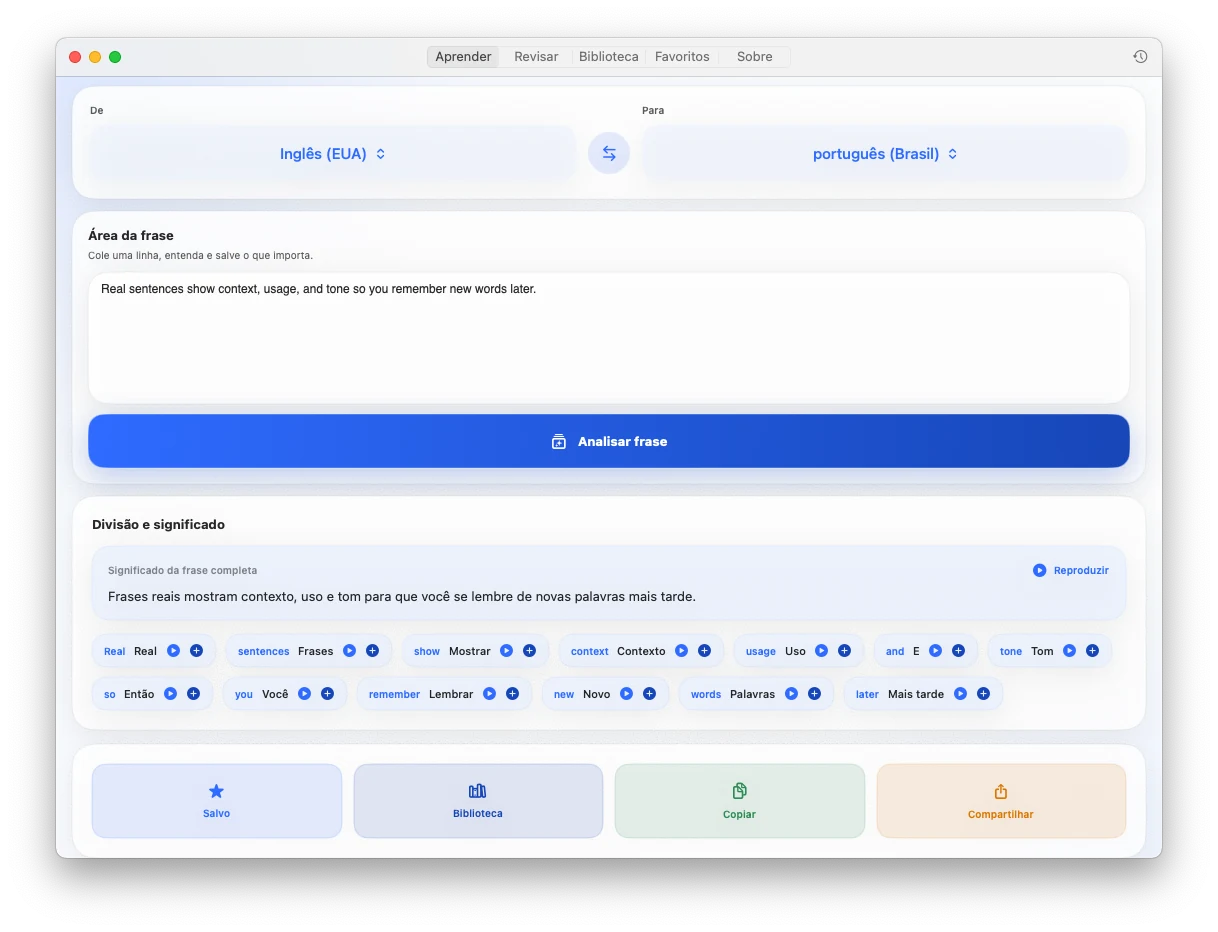
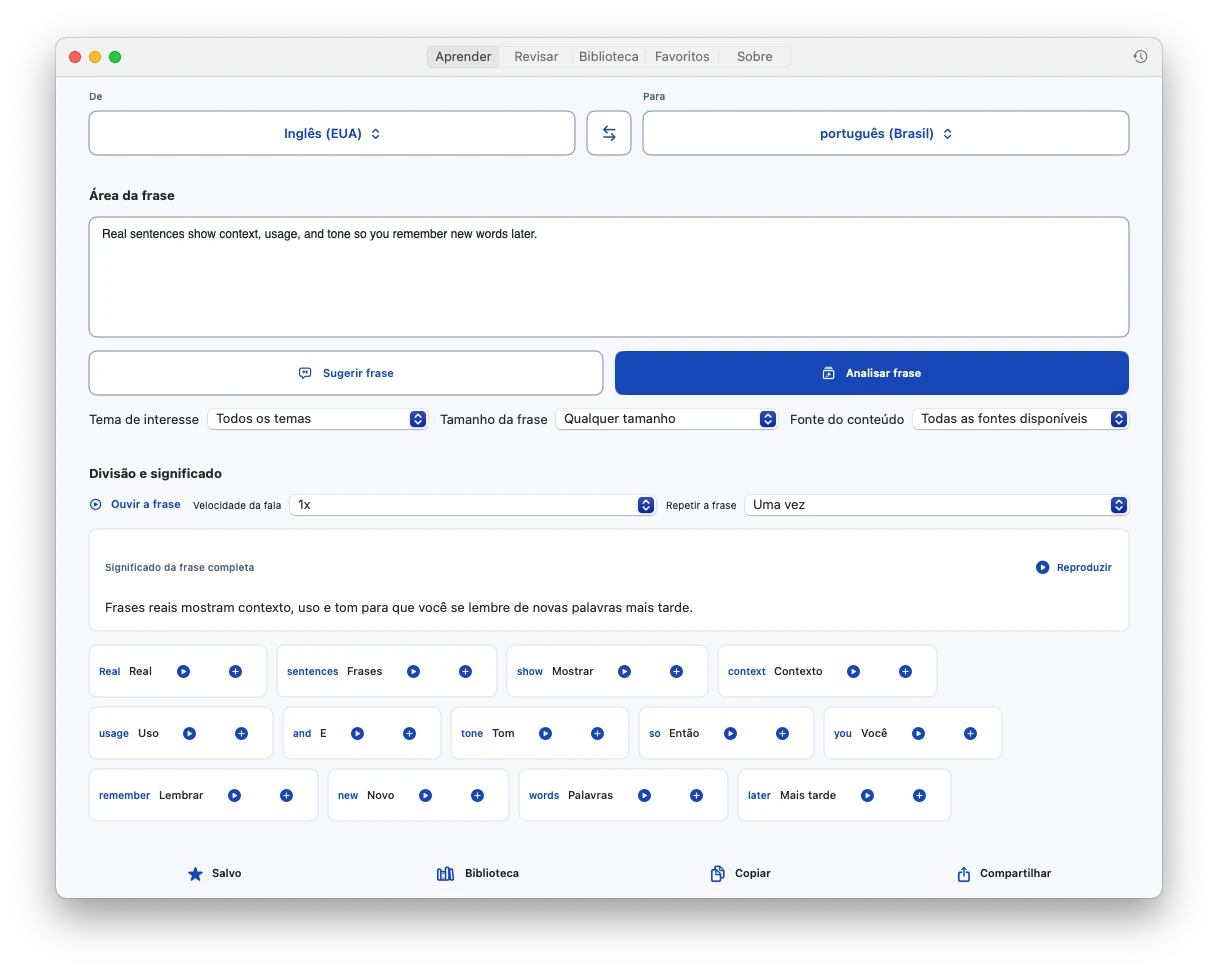
Refresh native App previews for 1.4.1 with verified image manifests

diff --git a/hi/index.html b/hi/index.html
@@ -65,7 +65,7 @@
 <div class="export-toolbar"><span id="selection-count" aria-live="polite"></span><label class="export-format">निर्यात का प्रारूप<select id="export-format"><option value="csv">CSV</option><option value="anki">Anki CSV</option></select></label><button id="export" type="button" class="secondary"><svg class="icon" aria-hidden="true"><use href="/images/study-icons.svg#download"></use></svg><span>निर्यात करें</span></button></div>
 </section>
 <section class="native-section" id="app"><div class="native-heading"><div><h2>जो शब्द काम आएँ, उन्हें सहेजकर रखें।</h2><p>iPhone, iPad और Mac पर पसंदीदा वाक्य और शब्द सहेजें। अंतराल पर दोहराएँ या अपनी अध्ययन सामग्री Anki में ले जाएँ।</p></div><a class="button primary" href="https://apps.apple.com/app/id6740488386?ct=website-home&mt=8"><svg class="icon" aria-hidden="true"><use href="/images/study-icons.svg#download"></use></svg>ऐप डाउनलोड करें</a></div>
-<figure class="native-screenshot"><picture><source media="(prefers-color-scheme: dark)" srcset="/images/app/mac_hi_dark_learn.webp"><img src="/images/app/mac_hi_light_learn.webp" alt="Mac पर PhraseCut: वाक्य, उसका अनुवाद और अलग-अलग शब्दों के अर्थ" width="1218" height="932" loading="lazy" decoding="async"></picture><figcaption>Mac ऐप का उदाहरण</figcaption></figure></section>
+<figure class="native-screenshot"><picture><source media="(prefers-color-scheme: dark)" srcset="/images/app/mac_hi_dark_learn.webp?v=593d5730af0e" width="1218" height="972"><img src="/images/app/mac_hi_light_learn.webp?v=181cde1f4ea0" alt="Mac पर PhraseCut: वाक्य, उसका अनुवाद और अलग-अलग शब्दों के अर्थ" width="1218" height="972" loading="lazy" decoding="async"></picture><figcaption>Mac ऐप के इंटरफ़ेस की झलक · 1.4.1</figcaption></figure></section>
 <section data-study-workflow><h2>पसंदीदा वाक्य से याद रहने वाले शब्द तक</h2><div class="learning-steps"><article><span class="step-number">01</span><h3>समझें</h3><p>पहले पूरे वाक्य का अर्थ देखें, फिर अलग-अलग शब्दों का।</p></article><article><span class="step-number">02</span><h3>सहेजें</h3><p>ऐप में उपयोगी शब्द मूल वाक्य के साथ रखें।</p></article><article><span class="step-number">03</span><h3>याद रखें</h3><p>अंतराल पर दोहराएँ या CSV और Anki CSV निर्यात करें।</p></article></div></section>
 <section data-search-overview><h2><a href="study">मुफ्त ऑनलाइन वाक्य अनुवाद और शब्द निर्यात</a></h2><p>PhraseCut का वेब संस्करण पूरे वाक्य और अलग-अलग शब्दों का अनुवाद, उपलब्ध ब्राउज़र आवाज़ों से उच्चारण और मूल वाक्य के साथ शब्द निर्यात देता है। iPhone, iPad और Mac ऐप में स्थानीय अध्ययन लाइब्रेरी और अंतराल पर दोहराने की सुविधा भी है।</p><a class="text-link" href="help">सहायता</a></section>
 <section data-content-sources><h2>अपनी रुचि के लेखों से नए शब्द सीखें</h2><p>यात्रा, तकनीक, विज्ञान, संस्कृति और दूसरे विषयों पर अपडेट होते सार्वजनिक स्रोतों से छोटे अंश खोजें। वाक्य और शब्दों का अनुवाद करें, फिर गति बदलकर और दोहराकर सुनने का अभ्यास करें। हर सुझाव में मूल लेख और लाइसेंस का लिंक है; यह पूरा समाचार लेख या प्रकाशक की ऑडियो रिकॉर्डिंग नहीं है।</p><p><a href="https://en.wikipedia.org/">Wikipedia</a> · <a href="https://globalvoices.org/">Global Voices</a> · <a href="https://www.nasa.gov/rss-feeds/">NASA</a> · <a href="https://en.wikivoyage.org/">Wikivoyage</a></p><p>अभी सुझाव अंग्रेज़ी स्रोतों से आते हैं। आप 20 समर्थित अनुवाद भाषाओं में अपना पाठ भी पेस्ट कर सकते हैं। उच्चारण आपके डिवाइस में उपलब्ध ब्राउज़र आवाज़ों पर निर्भर है। यह शब्द और सुनने के अभ्यास का टूल है, बहुभाषी समाचार फ़ीड या AI शिक्षक नहीं।</p></section>

diff --git a/vi/index.html b/vi/index.html
@@ -65,7 +65,7 @@
 <div class="export-toolbar"><span id="selection-count" aria-live="polite"></span><label class="export-format">Định dạng xuất<select id="export-format"><option value="csv">CSV</option><option value="anki">Anki CSV</option></select></label><button id="export" type="button" class="secondary"><svg class="icon" aria-hidden="true"><use href="/images/study-icons.svg#download"></use></svg><span>Xuất</span></button></div>
 </section>
 <section class="native-section" id="app"><div class="native-heading"><div><h2>Giữ lại những từ đáng để ôn lại.</h2><p>Lưu câu và từ vựng yêu thích trên iPhone, iPad và Mac. Ôn tập ngắt quãng hoặc mang tài liệu học sang Anki.</p></div><a class="button primary" href="https://apps.apple.com/app/id6740488386?ct=website-home&mt=8"><svg class="icon" aria-hidden="true"><use href="/images/study-icons.svg#download"></use></svg>Tải ứng dụng</a></div>
-<figure class="native-screenshot"><picture><source media="(prefers-color-scheme: dark)" srcset="/images/app/mac_vi_dark_learn.webp"><img src="/images/app/mac_vi_light_learn.webp" alt="PhraseCut cho Mac: câu gốc, bản dịch và nghĩa từng từ" width="1218" height="932" loading="lazy" decoding="async"></picture><figcaption>Ví dụ giao diện ứng dụng Mac</figcaption></figure></section>
+<figure class="native-screenshot"><picture><source media="(prefers-color-scheme: dark)" srcset="/images/app/mac_vi_dark_learn.webp?v=1c5e4821a813" width="1218" height="972"><img src="/images/app/mac_vi_light_learn.webp?v=97d89446cf3a" alt="PhraseCut cho Mac: câu gốc, bản dịch và nghĩa từng từ" width="1218" height="972" loading="lazy" decoding="async"></picture><figcaption>Xem trước giao diện ứng dụng Mac · 1.4.1</figcaption></figure></section>
 <section data-study-workflow><h2>Từ câu yêu thích đến từ vựng bạn nhớ</h2><div class="learning-steps"><article><span class="step-number">01</span><h3>Hiểu</h3><p>Đọc nghĩa cả câu, rồi xem từng từ.</p></article><article><span class="step-number">02</span><h3>Lưu</h3><p>Lưu từ vựng hữu ích cùng câu gốc trong ứng dụng.</p></article><article><span class="step-number">03</span><h3>Nhớ</h3><p>Ôn tập ngắt quãng hoặc xuất CSV và Anki CSV.</p></article></div></section>
 <section data-search-overview><h2><a href="study">Dịch câu và xuất từ vựng trực tuyến miễn phí</a></h2><p>PhraseCut Online dịch cả câu và từng từ, phát âm bằng giọng đọc có sẵn trong trình duyệt, và xuất từ vựng kèm ngữ cảnh câu gốc. Ứng dụng iPhone, iPad và Mac còn có thư viện học cục bộ và ôn tập ngắt quãng.</p><a class="text-link" href="help">Trợ giúp</a></section>
 <section data-content-sources><h2>Học từ mới từ bài viết đúng sở thích</h2><p>Khám phá trích đoạn ngắn về du lịch, công nghệ, khoa học, văn hóa và các chủ đề khác từ nguồn công khai được cập nhật. Dịch câu và từng từ, rồi luyện nghe với tốc độ và số lần lặp tùy chọn. Mỗi gợi ý kèm liên kết bài gốc và giấy phép; đây không phải bài báo đầy đủ hay bản ghi âm của nhà xuất bản.</p><p><a href="https://en.wikipedia.org/">Wikipedia</a> · <a href="https://globalvoices.org/">Global Voices</a> · <a href="https://www.nasa.gov/rss-feeds/">NASA</a> · <a href="https://en.wikivoyage.org/">Wikivoyage</a></p><p>Gợi ý hiện lấy từ nguồn tiếng Anh. Bạn cũng có thể dán văn bản của mình bằng 20 ngôn ngữ dịch được hỗ trợ. Phát âm phụ thuộc vào giọng đọc có trên thiết bị. Đây là công cụ luyện từ vựng và nghe, không phải bảng tin đa ngôn ngữ hay gia sư AI.</p></section>

diff --git a/index.html b/index.html
@@ -65,7 +65,7 @@
 <div class="export-toolbar"><span id="selection-count" aria-live="polite"></span><label class="export-format">Export format<select id="export-format"><option value="csv">CSV</option><option value="anki">Anki CSV</option></select></label><button id="export" type="button" class="secondary"><svg class="icon" aria-hidden="true"><use href="/images/study-icons.svg#download"></use></svg><span>Export</span></button></div>
 </section>
 <section class="native-section" id="app"><div class="native-heading"><div><h2>Keep the words worth coming back to.</h2><p>Save favorite sentences and vocabulary on iPhone, iPad, and Mac. Review with spaced repetition, or take your study material to Anki.</p></div><a class="button primary" href="https://apps.apple.com/app/id6740488386?ct=website-home&mt=8"><svg class="icon" aria-hidden="true"><use href="/images/study-icons.svg#download"></use></svg>Get the app</a></div>
-<figure class="native-screenshot"><picture><source media="(prefers-color-scheme: dark)" srcset="/images/app/mac_en_US_dark_learn.webp"><img src="/images/app/mac_en_US_light_learn.webp" alt="PhraseCut for Mac: a sentence, its translation, and individual word results" width="1218" height="932" loading="lazy" decoding="async"></picture><figcaption>Mac app interface example</figcaption></figure></section>
+<figure class="native-screenshot"><picture><source media="(prefers-color-scheme: dark)" srcset="/images/app/mac_en_US_dark_learn.webp?v=e8e71ff62b45" width="1218" height="972"><img src="/images/app/mac_en_US_light_learn.webp?v=b01d36cfd3f9" alt="PhraseCut for Mac: a sentence, its translation, and individual word results" width="1218" height="972" loading="lazy" decoding="async"></picture><figcaption>Mac app interface preview · 1.4.1</figcaption></figure></section>
 <section data-study-workflow><h2>From a favorite line to a word you remember</h2><div class="learning-steps"><article><span class="step-number">01</span><h3>Understand</h3><p>Translate the whole sentence, then look at the individual words.</p></article><article><span class="step-number">02</span><h3>Keep</h3><p>Save useful vocabulary with its original sentence in the app.</p></article><article><span class="step-number">03</span><h3>Remember</h3><p>Return for spaced review, or export your library as CSV or Anki CSV.</p></article></div></section>
 <section data-search-overview><h2><a href="study">Free online sentence translation and vocabulary export</a></h2><p>PhraseCut Online translates your sentence and individual words, plays pronunciation using available browser voices, and exports selected words with their sentence context. The native app adds a saved study library and spaced repetition.</p><a class="text-link" href="help">Help</a></section>
 <section data-content-sources><h2>Learn words from articles that match your interests</h2><p>Explore short excerpts about travel, technology, science, culture, and other interests from public sources that keep updating. Translate a sentence and its words, then practice listening with adjustable speed and repeats. Each suggestion links to its original article and license; it is not a complete news article or an audio recording by the publisher.</p><p><a href="https://en.wikipedia.org/">Wikipedia</a> · <a href="https://globalvoices.org/">Global Voices</a> · <a href="https://www.nasa.gov/rss-feeds/">NASA</a> · <a href="https://en.wikivoyage.org/">Wikivoyage</a></p><p>Recommendations currently use English-language sources. You can also paste your own text in any of the 20 supported translation languages. Browser pronunciation depends on the voices installed on your device. This is a vocabulary and listening practice tool, not a multilingual news feed or an AI tutor.</p></section>

diff --git a/pt-br/index.html b/pt-br/index.html
@@ -65,7 +65,7 @@
 <div class="export-toolbar"><span id="selection-count" aria-live="polite"></span><label class="export-format">Formato de exportação<select id="export-format"><option value="csv">CSV</option><option value="anki">Anki CSV</option></select></label><button id="export" type="button" class="secondary"><svg class="icon" aria-hidden="true"><use href="/images/study-icons.svg#download"></use></svg><span>Exportar</span></button></div>
 </section>
 <section class="native-section" id="app"><div class="native-heading"><div><h2>Guarde as palavras que vale a pena rever.</h2><p>Salve frases e palavras favoritas no iPhone, iPad e Mac. Revise com repetição espaçada ou leve seu material de estudo para o Anki.</p></div><a class="button primary" href="https://apps.apple.com/app/id6740488386?ct=website-home&mt=8"><svg class="icon" aria-hidden="true"><use href="/images/study-icons.svg#download"></use></svg>Baixar o app</a></div>
-<figure class="native-screenshot"><picture><source media="(prefers-color-scheme: dark)" srcset="/images/app/mac_pt_BR_dark_learn.webp"><img src="/images/app/mac_pt_BR_light_learn.webp" alt="PhraseCut para Mac: frase, tradução e significado de cada palavra" width="1218" height="932" loading="lazy" decoding="async"></picture><figcaption>Exemplo da interface do app para Mac</figcaption></figure></section>
+<figure class="native-screenshot"><picture><source media="(prefers-color-scheme: dark)" srcset="/images/app/mac_pt_BR_dark_learn.webp?v=72d4682b2b1c" width="1219" height="972"><img src="/images/app/mac_pt_BR_light_learn.webp?v=f2aa232e840b" alt="PhraseCut para Mac: frase, tradução e significado de cada palavra" width="1218" height="972" loading="lazy" decoding="async"></picture><figcaption>Prévia da interface do app para Mac · 1.4.1</figcaption></figure></section>
 <section data-study-workflow><h2>De uma frase favorita a palavras que ficam</h2><div class="learning-steps"><article><span class="step-number">01</span><h3>Entenda</h3><p>Leia o significado da frase inteira e depois confira cada palavra.</p></article><article><span class="step-number">02</span><h3>Guarde</h3><p>Salve palavras úteis com a frase original no app.</p></article><article><span class="step-number">03</span><h3>Lembre</h3><p>Revise com intervalos ou exporte CSV e Anki CSV.</p></article></div></section>
 <section data-search-overview><h2><a href="study">Tradução de frases e exportação de vocabulário grátis</a></h2><p>O PhraseCut Online traduz a frase e cada palavra, reproduz a pronúncia com as vozes disponíveis no navegador e exporta vocabulário com o contexto original. O app para iPhone, iPad e Mac também oferece biblioteca local e repetição espaçada.</p><a class="text-link" href="help">Ajuda</a></section>
 <section data-content-sources><h2>Aprenda palavras com artigos dos seus interesses</h2><p>Explore trechos curtos sobre viagens, tecnologia, ciência, cultura e outros interesses em fontes públicas atualizadas. Traduza a frase e suas palavras, depois pratique a escuta com velocidade e repetições ajustáveis. Cada sugestão inclui o artigo original e a licença; não é uma notícia completa nem uma gravação do editor.</p><p><a href="https://en.wikipedia.org/">Wikipedia</a> · <a href="https://globalvoices.org/">Global Voices</a> · <a href="https://www.nasa.gov/rss-feeds/">NASA</a> · <a href="https://en.wikivoyage.org/">Wikivoyage</a></p><p>As sugestões usam fontes em inglês por enquanto. Você também pode colar seu texto em qualquer um dos 20 idiomas de tradução disponíveis. A pronúncia depende das vozes do navegador no seu dispositivo. Esta é uma ferramenta de vocabulário e escuta, não um feed de notícias multilíngue nem um tutor de IA.</p></section>

diff --git a/id/index.html b/id/index.html
@@ -65,7 +65,7 @@
 <div class="export-toolbar"><span id="selection-count" aria-live="polite"></span><label class="export-format">Format ekspor<select id="export-format"><option value="csv">CSV</option><option value="anki">Anki CSV</option></select></label><button id="export" type="button" class="secondary"><svg class="icon" aria-hidden="true"><use href="/images/study-icons.svg#download"></use></svg><span>Ekspor</span></button></div>
 </section>
 <section class="native-section" id="app"><div class="native-heading"><div><h2>Simpan kata yang ingin Anda ingat.</h2><p>Simpan kalimat dan kosakata favorit di iPhone, iPad, dan Mac. Ulangi dengan jeda belajar atau bawa materi Anda ke Anki.</p></div><a class="button primary" href="https://apps.apple.com/app/id6740488386?ct=website-home&mt=8"><svg class="icon" aria-hidden="true"><use href="/images/study-icons.svg#download"></use></svg>Unduh aplikasi</a></div>
-<figure class="native-screenshot"><picture><source media="(prefers-color-scheme: dark)" srcset="/images/app/mac_id_dark_learn.webp"><img src="/images/app/mac_id_light_learn.webp" alt="PhraseCut untuk Mac: kalimat, terjemahan, dan arti tiap kata" width="1218" height="932" loading="lazy" decoding="async"></picture><figcaption>Contoh tampilan app Mac</figcaption></figure></section>
+<figure class="native-screenshot"><picture><source media="(prefers-color-scheme: dark)" srcset="/images/app/mac_id_dark_learn.webp?v=c0068329e58b" width="1218" height="972"><img src="/images/app/mac_id_light_learn.webp?v=6dcf3ada8245" alt="PhraseCut untuk Mac: kalimat, terjemahan, dan arti tiap kata" width="1218" height="972" loading="lazy" decoding="async"></picture><figcaption>Pratinjau antarmuka app Mac · 1.4.1</figcaption></figure></section>
 <section data-study-workflow><h2>Dari kalimat favorit menjadi kata yang diingat</h2><div class="learning-steps"><article><span class="step-number">01</span><h3>Pahami</h3><p>Baca arti seluruh kalimat, lalu periksa tiap katanya.</p></article><article><span class="step-number">02</span><h3>Simpan</h3><p>Simpan kosakata berguna beserta kalimat aslinya di aplikasi.</p></article><article><span class="step-number">03</span><h3>Ingat</h3><p>Ulangi secara berkala atau ekspor CSV dan Anki CSV.</p></article></div></section>
 <section data-search-overview><h2><a href="study">Terjemahan kalimat dan ekspor kosakata online gratis</a></h2><p>PhraseCut Online menerjemahkan kalimat dan kata satu per satu, memutar pelafalan dengan suara browser yang tersedia, dan mengekspor kosakata beserta konteks kalimatnya. Aplikasi iPhone, iPad, dan Mac menambahkan perpustakaan belajar lokal dan pengulangan berjarak.</p><a class="text-link" href="help">Bantuan</a></section>
 <section data-content-sources><h2>Belajar kata dari artikel yang sesuai minat</h2><p>Temukan kutipan pendek tentang perjalanan, teknologi, sains, budaya, dan minat lain dari sumber publik yang terus diperbarui. Terjemahkan kalimat dan katanya, lalu latih menyimak dengan kecepatan dan pengulangan yang bisa diatur. Setiap saran menyertakan artikel asli dan lisensi; bukan artikel berita lengkap atau rekaman audio penerbit.</p><p><a href="https://en.wikipedia.org/">Wikipedia</a> · <a href="https://globalvoices.org/">Global Voices</a> · <a href="https://www.nasa.gov/rss-feeds/">NASA</a> · <a href="https://en.wikivoyage.org/">Wikivoyage</a></p><p>Saran saat ini berasal dari sumber berbahasa Inggris. Anda juga bisa menempel teks sendiri dalam 20 bahasa terjemahan yang didukung. Pelafalan bergantung pada suara browser yang tersedia di perangkat. Ini alat belajar kosakata dan menyimak, bukan umpan berita multibahasa atau tutor AI.</p></section>

diff --git a/zh-hans/index.html b/zh-hans/index.html
@@ -65,7 +65,7 @@
 <div class="export-toolbar"><span id="selection-count" aria-live="polite"></span><label class="export-format">导出格式<select id="export-format"><option value="csv">CSV</option><option value="anki">Anki CSV</option></select></label><button id="export" type="button" class="secondary"><svg class="icon" aria-hidden="true"><use href="/images/study-icons.svg#download"></use></svg><span>导出</span></button></div>
 </section>
 <section class="native-section" id="app"><div class="native-heading"><div><h2>把喜欢的句子，变成自己的积累。</h2><p>在 iPhone、iPad 和 Mac 上保存句子与词汇，通过间隔复习巩固记忆，也能把学习资料带到 Anki。</p></div><a class="button primary" href="https://apps.apple.com/app/id6740488386?ct=website-home&mt=8"><svg class="icon" aria-hidden="true"><use href="/images/study-icons.svg#download"></use></svg>下载 App</a></div>
-<figure class="native-screenshot"><picture><source media="(prefers-color-scheme: dark)" srcset="/images/app/mac_zh_Hans_dark_learn.webp"><img src="/images/app/mac_zh_Hans_light_learn.webp" alt="PhraseCut Mac 版：原句、整句译文与逐词结果" width="1218" height="932" loading="lazy" decoding="async"></picture><figcaption>Mac App 界面示例</figcaption></figure></section>
+<figure class="native-screenshot"><picture><source media="(prefers-color-scheme: dark)" srcset="/images/app/mac_zh_Hans_dark_learn.webp?v=c8cdc5f6ac8d" width="1218" height="972"><img src="/images/app/mac_zh_Hans_light_learn.webp?v=a82a3c27d3ad" alt="PhraseCut Mac 版：原句、整句译文与逐词结果" width="1174" height="928" loading="lazy" decoding="async"></picture><figcaption>Mac App 界面预览 · 1.4.1</figcaption></figure></section>
 <section data-study-workflow><h2>从喜欢的句子，到记得住的单词</h2><div class="learning-steps"><article><span class="step-number">01</span><h3>理解</h3><p>先读整句意思，再看看每个单词。</p></article><article><span class="step-number">02</span><h3>留住</h3><p>在 App 中保存有用的词汇，也留下原句语境。</p></article><article><span class="step-number">03</span><h3>记住</h3><p>通过间隔复习巩固记忆，或导出 CSV、Anki CSV。</p></article></div></section>
 <section data-search-overview><h2><a href="study">免费在线句子翻译与词汇导出</a></h2><p>PhraseCut 网页版提供整句翻译、逐词翻译、浏览器语音朗读，以及带原句语境的词汇导出。iPhone、iPad 和 Mac 版 App 还提供本地学习库和间隔复习。</p><a class="text-link" href="help">帮助</a></section>
 <section data-content-sources><h2>从感兴趣的文章摘句学单词</h2><p>按旅行、科技、科学、文化等兴趣，从持续更新的公开来源中发现短句。翻译整句和单词，再调速、循环朗读练习听力。每条推荐保留原文链接和许可；展示的是摘句，而非完整新闻或原作者录音。</p><p><a href="https://en.wikipedia.org/">Wikipedia</a> · <a href="https://globalvoices.org/">Global Voices</a> · <a href="https://www.nasa.gov/rss-feeds/">NASA</a> · <a href="https://en.wikivoyage.org/">Wikivoyage</a></p><p>目前推荐使用英文来源，也可以粘贴自己的文本，学习支持翻译的 20 种语言。朗读取决于设备上可用的浏览器语音。这是词汇与听力练习工具，不是多语言新闻聚合器，也不是 AI 导师。</p></section>

diff --git a/zh-hant/index.html b/zh-hant/index.html
@@ -65,7 +65,7 @@
 <div class="export-toolbar"><span id="selection-count" aria-live="polite"></span><label class="export-format">匯出格式<select id="export-format"><option value="csv">CSV</option><option value="anki">Anki CSV</option></select></label><button id="export" type="button" class="secondary"><svg class="icon" aria-hidden="true"><use href="/images/study-icons.svg#download"></use></svg><span>匯出</span></button></div>
 </section>
 <section class="native-section" id="app"><div class="native-heading"><div><h2>把喜歡的句子，變成自己的累積。</h2><p>在 iPhone、iPad 和 Mac 上儲存句子與單字，透過間隔複習鞏固記憶，也能把學習資料帶到 Anki。</p></div><a class="button primary" href="https://apps.apple.com/app/id6740488386?ct=website-home&mt=8"><svg class="icon" aria-hidden="true"><use href="/images/study-icons.svg#download"></use></svg>下載 App</a></div>
-<figure class="native-screenshot"><picture><source media="(prefers-color-scheme: dark)" srcset="/images/app/mac_zh_Hant_dark_learn.webp"><img src="/images/app/mac_zh_Hant_light_learn.webp" alt="PhraseCut Mac 版：原句、整句譯文與逐字結果" width="1218" height="932" loading="lazy" decoding="async"></picture><figcaption>Mac App 介面範例</figcaption></figure></section>
+<figure class="native-screenshot"><picture><source media="(prefers-color-scheme: dark)" srcset="/images/app/mac_zh_Hant_dark_learn.webp?v=6542b3c43ec5" width="1218" height="972"><img src="/images/app/mac_zh_Hant_light_learn.webp?v=e8bc4c54ef58" alt="PhraseCut Mac 版：原句、整句譯文與逐字結果" width="1218" height="972" loading="lazy" decoding="async"></picture><figcaption>Mac App 介面預覽 · 1.4.1</figcaption></figure></section>
 <section data-study-workflow><h2>從喜歡的句子，到記得住的單字</h2><div class="learning-steps"><article><span class="step-number">01</span><h3>理解</h3><p>先讀整句意思，再看看每個單字。</p></article><article><span class="step-number">02</span><h3>留住</h3><p>在 App 中儲存有用的單字，也留下原句語境。</p></article><article><span class="step-number">03</span><h3>記住</h3><p>透過間隔複習鞏固記憶，或匯出 CSV、Anki CSV。</p></article></div></section>
 <section data-search-overview><h2><a href="study">免費線上句子翻譯與單字匯出</a></h2><p>PhraseCut 網頁版提供整句翻譯、逐字翻譯、瀏覽器語音朗讀，以及保留原句語境的單字匯出。iPhone、iPad 和 Mac 版 App 另有本機學習庫和間隔複習。</p><a class="text-link" href="help">說明</a></section>
 <section data-content-sources><h2>從感興趣的文章摘句學單字</h2><p>依旅行、科技、科學、文化等興趣，從持續更新的公開來源探索短句。翻譯整句和單字，再調速、循環朗讀練習聽力。每則推薦保留原文連結及授權；展示的是摘句，而非完整新聞或原作者錄音。</p><p><a href="https://en.wikipedia.org/">Wikipedia</a> · <a href="https://globalvoices.org/">Global Voices</a> · <a href="https://www.nasa.gov/rss-feeds/">NASA</a> · <a href="https://en.wikivoyage.org/">Wikivoyage</a></p><p>目前推薦使用英文來源，也可以貼上自己的文字，學習支援翻譯的 20 種語言。朗讀取決於裝置上可用的瀏覽器語音。這是單字與聽力練習工具，不是多語言新聞彙整服務，也不是 AI 導師。</p></section>

diff --git a/images/app/README.md b/images/app/README.md
@@ -2,11 +2,19 @@
 
 These images are the project's actual macOS app screenshots, not HTML mockups
 or generated app interfaces. They illustrate the sentence and word-result
-layout; they do not claim to show every control in the latest app release.
+layout. Captions identify these as interface previews, not a claim that the
+preview version is already publicly available on the App Store.
 
 Source: `macos_screenshots/raw/mac_<locale>_<mode>_learn.png` in the parent app
-project, captured September 2026. Each locale has its own real light/dark image.
+project, freshly captured from native version 1.4.1 (34) in October 2026.
+Each locale has its own real light/dark image. Sample translations are stable
+Apple Translation results; no HTML UI or UI-test placeholder meanings are used.
 They are converted with `cwebp -q 88 -m 6`, retaining the complete frame and alpha.
 Never crop away words, result controls, or source attribution to fit a layout.
 Use a picture element with light and dark sources, meaningful localized alt
 text, explicit dimensions, lazy loading, and `object-fit: contain`.
+
+Run the parent project's `scripts/sync_website_app_screenshots.mjs` after a
+fresh native capture. It rejects images older than the built App and records
+dimensions, hashes, capture times and version in `manifest.json`. The site
+build verifies these hashes and versions image URLs to avoid stale CDN images.
